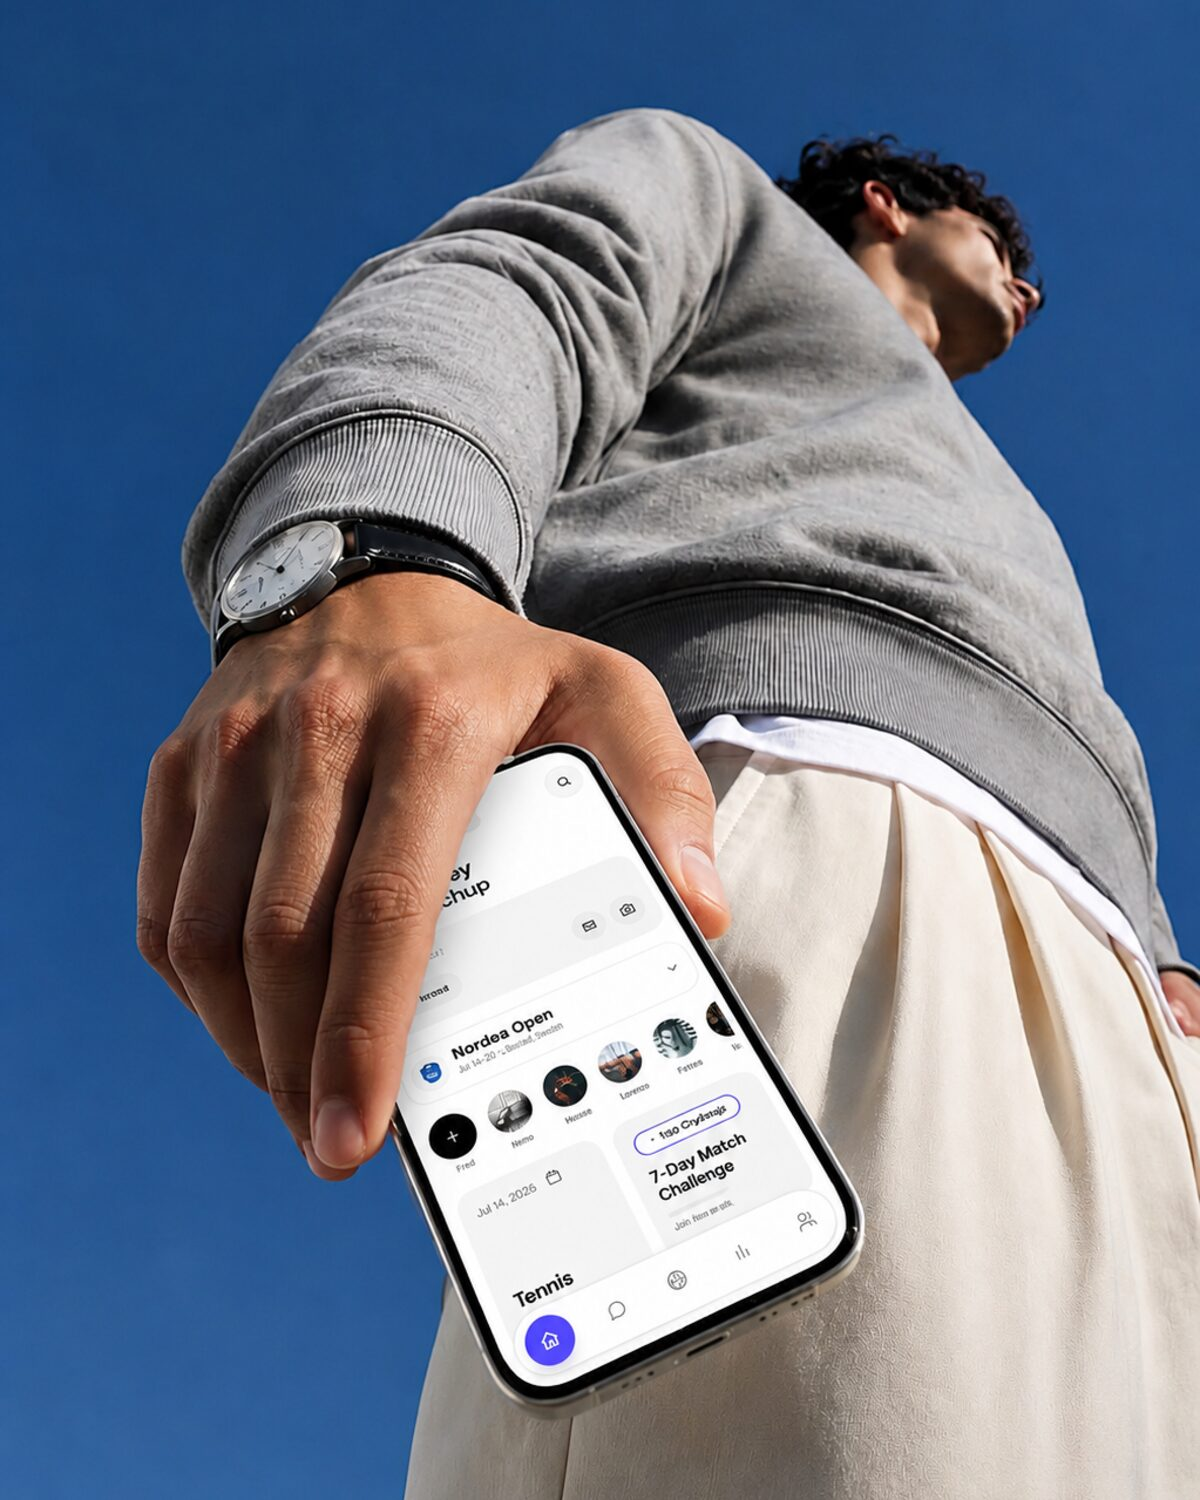
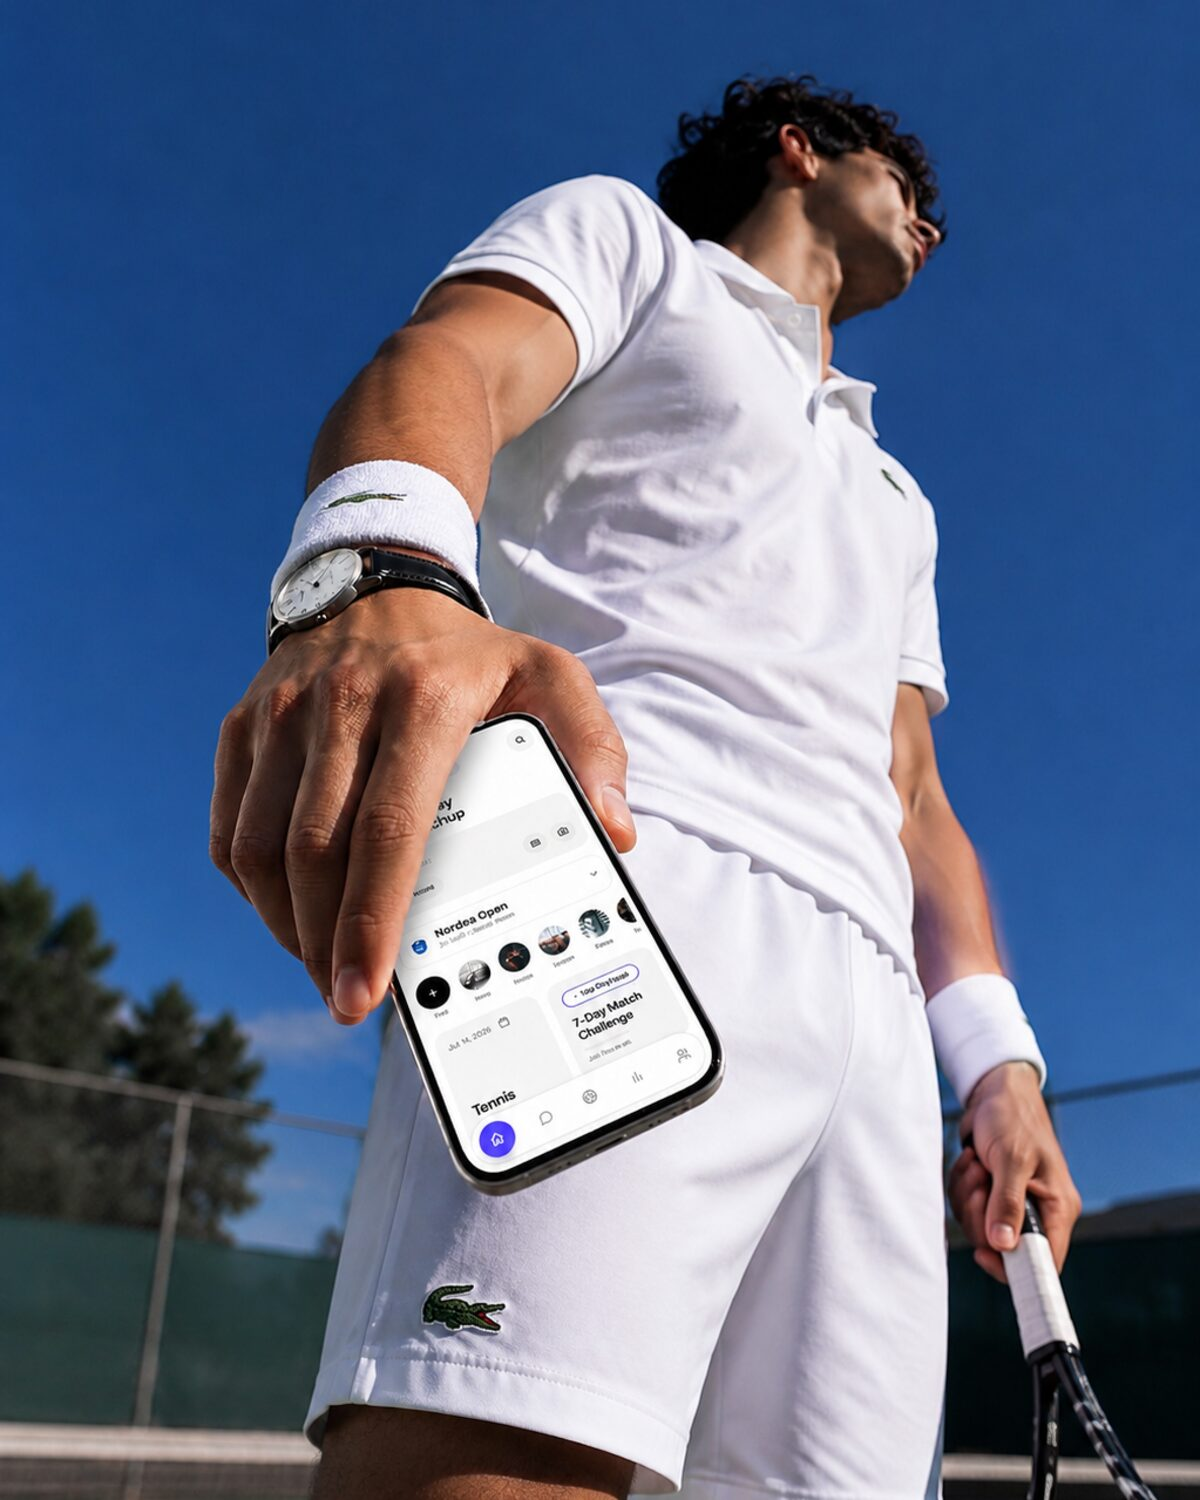
Landing Play-Kacheln: (1) Track progress mit neuem Foto (Court, weisses Outfit, Matchup-Home-Screen) - von 1023x1537 auf 4:5 beschnitten, Handy + Kopf im Bild. (2) Organise games bekommt zusaetzliche Match-Szene oben links (analog zur Chat&play-Szene bei /find-a-partner): Einladungs-Karte ploppt auf

diff --git a/src/components/CompletePicture.tsx b/src/components/CompletePicture.tsx
@@ -161,6 +161,65 @@ function ProgressOverlay({ show }: { show: boolean }) {
   );
 }
 
+/* Spiele organisieren — Match-Einladung ploppt oben links auf: Typ/Zeit/Platz,
+ * Mitspieler füllen die Slots, letzter Slot bleibt offen, dann „Zugesagt". */
+const GAME_AVATARS = [
+  "/find-a-partner/av-man.jpg",
+  "/find-a-partner/av-woman1.jpg",
+  "/find-a-partner/av-woman2.jpg",
+];
+function OrganizeScene({ show }: { show: boolean }) {
+  const t = useT();
+  return (
+    <div className="absolute left-3 top-3 w-[64%] max-w-[210px] sm:left-4 sm:top-4">
+      <div
+        className={`rounded-2xl bg-white/95 p-2.5 shadow-[0_14px_36px_-10px_rgba(0,0,0,0.55)] ring-1 ring-black/5 backdrop-blur ${show ? "anim-pop" : "opacity-0"}`}
+        style={show ? { animationDelay: "0.25s" } : undefined}
+      >
+        <div className="flex items-center gap-2">
+          <span className="flex h-7 w-7 shrink-0 items-center justify-center rounded-full bg-matchup text-white">
+            <TennisBall className="h-4 w-4" />
+          </span>
+          <div className="min-w-0">
+            <p className="truncate text-[11px] font-extrabold leading-tight text-neutral-900">{t("landing.organizeSceneType")}</p>
+            <p className="truncate text-[9.5px] font-semibold text-neutral-500">{t("landing.organizeSceneWhen")}</p>
+          </div>
+        </div>
+        <div className="mt-2 flex items-center justify-between border-t border-black/5 pt-2">
+          <div className="flex -space-x-2">
+            {GAME_AVATARS.map((src, i) => (
+              <span
+                key={src}
+                className={`h-6 w-6 overflow-hidden rounded-full ring-2 ring-white ${show ? "anim-pop" : "opacity-0"}`}
+                style={show ? { animationDelay: `${0.5 + i * 0.13}s` } : undefined}
+              >
+                {/* eslint-disable-next-line @next/next/no-img-element */}
+                <img src={src} alt="" className="h-full w-full object-cover" />
+              </span>
+            ))}
+            {/* offener Slot */}
+            <span
+              className={`flex h-6 w-6 items-center justify-center rounded-full border border-dashed border-matchup/60 bg-white text-[10px] font-bold text-matchup ring-2 ring-white ${show ? "anim-pop" : "opacity-0"}`}
+              style={show ? { animationDelay: "0.9s" } : undefined}
+            >
+              +
+            </span>
+          </div>
+          <span className="shrink-0 text-[9px] font-extrabold text-matchup">{t("landing.organizeSceneSlot")}</span>
+        </div>
+      </div>
+
+      {/* Zusage-Pill */}
+      <div
+        className={`ml-auto mt-2 w-fit rounded-full bg-emerald-500 px-2.5 py-1 text-[10px] font-bold text-white shadow-lg ${show ? "anim-pop" : "opacity-0"}`}
+        style={show ? { animationDelay: "1.15s" } : undefined}
+      >
+        ✓ {t("landing.organizeSceneJoined")}
+      </div>
+    </div>
+  );
+}
+
 function FeatureCard({ f }: { f: (typeof FEATURES)[number] }) {
   const { ref, inView } = useInView<HTMLElement>();
   const t = useT();
@@ -178,6 +237,7 @@ function FeatureCard({ f }: { f: (typeof FEATURES)[number] }) {
           className="object-cover transition-transform duration-500 group-hover:scale-105"
         />
         {f.overlay === "discover" && <DiscoverOverlay show={inView} />}
+        {f.overlay === "organize" && <OrganizeScene show={inView} />}
         {f.overlay === "organize" && <OrganizeOverlay show={inView} />}
         {f.overlay === "community" && <CommunityOverlay show={inView} />}
         {f.overlay === "progress" && <ProgressOverlay show={inView} />}

diff --git a/src/lib/i18n/messages/landing.ts b/src/lib/i18n/messages/landing.ts
@@ -46,6 +46,10 @@ export const landing = {
     organizeCopy:
       "Erstelle ein Match, wähle Ort und Zeit, lade Mitspieler ein oder tritt offenen Spielen bei. Singles oder Doubles, spontan oder geplant.",
     organizeChip: "3/4 Spieler",
+    organizeSceneType: "Doppel · Tennis",
+    organizeSceneWhen: "Sa 18:00 · Platz 3",
+    organizeSceneSlot: "1 Platz frei",
+    organizeSceneJoined: "Zugesagt",
     communityTitle: "Deine Community",
     communityCopy:
       "Gründe Gruppen, tausche dich im Feed aus und vernetze dich mit Gleichgesinnten, von Club-Gruppen bis zu lokalen Spieltreffs.",
@@ -155,6 +159,10 @@ export const landing = {
     organizeCopy:
       "Create a match, pick a place and time, invite players or join open games. Singles or doubles, spontaneous or planned.",
     organizeChip: "3/4 players",
+    organizeSceneType: "Doubles · Tennis",
+    organizeSceneWhen: "Sat 18:00 · Court 3",
+    organizeSceneSlot: "1 spot left",
+    organizeSceneJoined: "Joined",
     communityTitle: "Your community",
     communityCopy:
       "Start groups, share in the feed and connect with like-minded players, from club groups to local meetups.",
